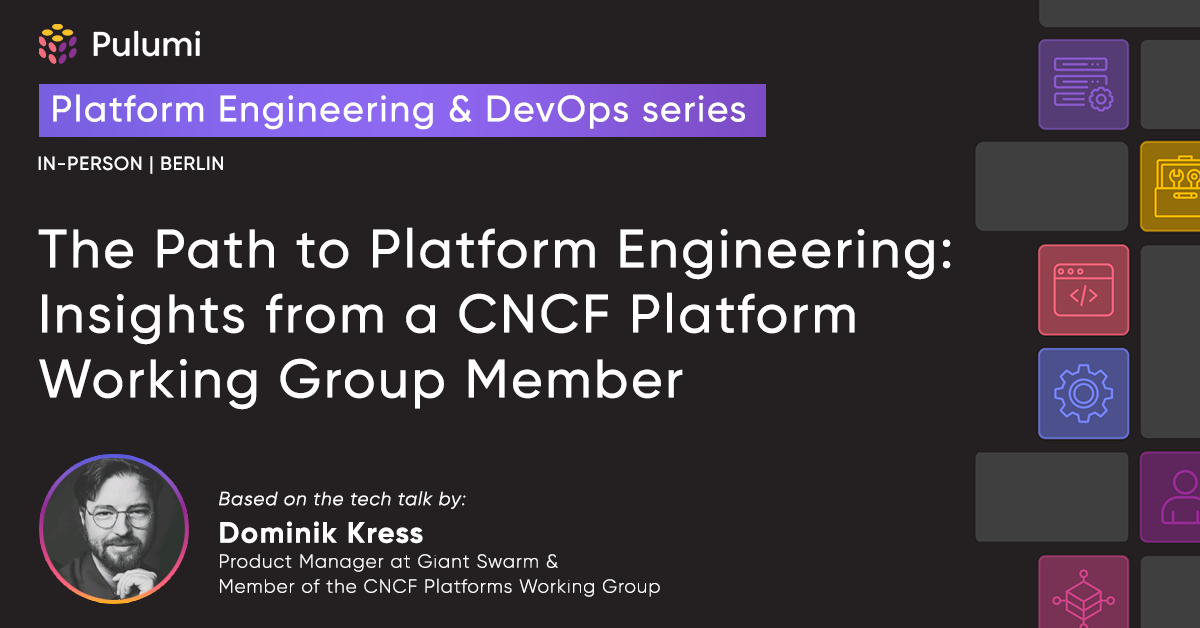
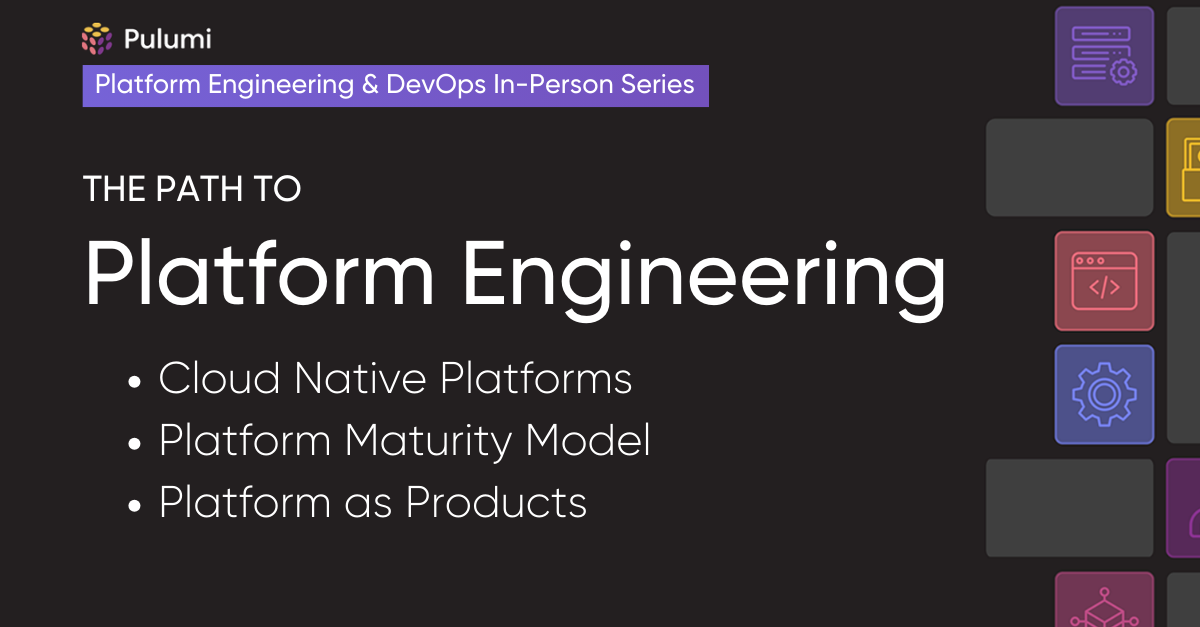
PulumiUP EU - Platform engineering panel article (#13496)
* Platform-engineering-article-pulumiup-europe

* Version 1

* Those #*! spaces

* Hoping to fix the error

* Fix error

* Update index.md

* Apply suggestions from code review

* Update content/blog/integrating-devops-and-security-for-scalable-platform-engineering/index.md

* More links

* fixing links

* Update content/blog/integrating-devops-and-security-for-scalable-platform-engineering/index.md

* Update quote style

* Less is more

applying some of Adam's suggestions

* Add new CTA

* Update title and CTA

* update image

* Update link

* image fix

* update meta

* Update quotes and add links

* Update workshops CTA area

* meta

* meta image update

---------

diff --git a/content/blog/integrating-devops-and-security-for-scalable-platform-engineering/index.md b/content/blog/integrating-devops-and-security-for-scalable-platform-engineering/index.md
@@ -1,0 +1,231 @@
+---
+title: "Integrating DevOps and Security in Platform Engineering"
+allow_long_title: true
+
+# The date represents the post's publish date, and by default corresponds with
+# the date and time this file was generated. Dates are used for display and
+# ordering purposes only; they have no effect on whether or when a post is
+# published. To influence the ordering of posts published on the same date, use
+# the time portion of the date value; posts are sorted in descending order by
+# date/time.
+date: 2024-12-11T07:41:06Z
+
+# The draft setting determines whether a post is published. Set it to true if
+# you want to be able to merge the post without publishing it.
+draft: false
+
+# Use the meta_desc property to provide a brief summary (one or two sentences)
+# of the content of the post, which is useful for targeting search results or
+# social-media previews. This field is required or the build will fail the
+# linter test. Max length is 160 characters.
+meta_desc: Gain insights from industry leaders on integrating DevOps and security in platform engineering to build scalable, secure, and developer-friendly platforms.
+
+# The meta_image appears in social-media previews and on the blog home page. A
+# placeholder image representing the recommended format, dimensions and aspect
+# ratio has been provided for you.
+meta_image: expert-insights-platform-engineering.png
+
+# At least one author is required. The values in this list correspond with the
+# `id` properties of the team member files at /data/team/team. Create a file for
+# yourself if you don't already have one.
+authors:
+    - sara-huddleston
+
+# At least one tag is required. Lowercase, hyphen-delimited is recommended.
+tags:
+    - devsecops
+    - platform-engineering
+    - devex
+    - devops
+    - security
+
+
+# The social copy used to promote this post on Twitter and Linkedin. These
+# properties do not actually create the post and have no effect on the
+# generated blog page. They are here strictly for reference.
+
+# Here are some examples of posts we have made in the past for inspiration:
+# https://www.linkedin.com/feed/update/urn:li:activity:7171191945841561601
+# https://www.linkedin.com/feed/update/urn:li:activity:7169021002394296320
+# https://www.linkedin.com/feed/update/urn:li:activity:7155606616455737345
+# https://twitter.com/PulumiCorp/status/1763265391042654623
+# https://twitter.com/PulumiCorp/status/1762900472489185492
+# https://twitter.com/PulumiCorp/status/1755637618631405655
+
+social:
+    twitter:
+    linkedin:
+
+# See the blogging docs at https://github.com/pulumi/docs/blob/master/BLOGGING.md
+# for details, and please remove these comments before submitting for review.
+---
+
+Platform engineering has become essential for mid-to-large organizations, moving beyond a DevOps trend. Gartner predicts that by 2026, 80% of software companies will have internal platform services to streamline development. The goal is to empower developers with self-service tools while maintaining security, compliance, and reliability through DevSecOps practices.
+
+At PulumiUP Europe 2024, experts shared insights on aligning DevOps with security to build scalable, secure platforms:
+
+- Jess Mink, Sr. Director of Platform Engineering at Honeycomb
+- Kief Morris, Global Head of Infrastructure Engineering at ThoughtWorks
+- Lindsay Jack, VP of Engineering & Security at Snyk
+- Nariman Aga-Tagiyev, Application Security Architect at WiseFrog Security
+- Komal Ali, Engineering Manager at Pulumi
+  
+The panel discussed key strategies, challenges, and pillars of successful platform engineering.
+
+<!--more-->
+
+## In this article:
+
+- [The Core Pillars of Platform Engineering](/blog/integrating-devops-and-security-for-scalable-platform-engineering/the-core-pillars-of-platform-engineering)
+- [Aligning DevOps and Security for Secure Platform Engineering](/blog/integrating-devops-and-security-for-scalable-platform-engineering/aligning-devops-and-security-for-secure-platform-engineering)
+- [Shift Left Security](/blog/integrating-devops-and-security-for-scalable-platform-engineering/shift-left-security)
+- [Embrace Automation and Standardization](/blog/integrating-devops-and-security-for-scalable-platform-engineering/embrace-automation-and-standardization)
+- [Prioritize Observability and Monitoring](/blog/integrating-devops-and-security-for-scalable-platform-engineering/prioritize-observability-and-monitoring)
+- [Foster a Culture of Collaboration](/blog/integrating-devops-and-security-for-scalable-platform-engineering/foster-a-culturecof-collaboration)
+- [Challenges of Integrating Security in Platform Engineering](/blog/integrating-devops-and-security-for-scalable-platform-engineering/#challenges-of-integrating-security-in-platform-engineering)
+- [Balancing Autonomy and Control](/blog/integrating-devops-and-security-for-scalable-platform-engineering/#balancing-autonomy-and-control)
+- [Driving Adoption and Changing Mindsets](/blog/integrating-devops-and-security-for-scalable-platform-engineering/#driving-adoption-and-changing-mindsets)
+- [Adapting to Evolving Needs and Technologies](/blog/integrating-devops-and-security-for-scalable-platform-engineering/#adapting-to-evolving-needs-and-technologies)
+- [Measuring Success in Secure Platform Engineering](/blog/integrating-devops-and-security-for-scalable-platform-engineering/#measuring-success-in-secure-platform-engineering)
+- [The Future of Secure Platform Engineering](/blog/integrating-devops-and-security-for-scalable-platform-engineering/#the-future-of-secure-platform-engineering)
+
+## The Core Pillars of Platform Engineering
+
+{{< youtube "WUpyqn1Jfwg?rel=0" >}}
+
+[Platform engineering teams](https://www.pulumi.com/blog/the-guide-platform-engineering-idp-steps-best-practices/) comprise multiple professionals with many responsibilities and focus areas. According to our panel of experts, the core pillars of platform engineering include:
+
+- **[Developer Experience (DevEx)](https://www.pulumi.com/blog/software-developer-experience-devex-devx-devops-culture/)**: Provide developers with the tools, frameworks, and abstractions they need to be productive and proactive without getting stuck in infrastructure or operational concerns.
+- **[Reliability and Scalability](https://www.pulumi.com/blog/pulumi-patterns-and-practices/#an-effective-internal-developer-platform)**: Ensure that the platform and infrastructure can support the organization's needs, with the ability to scale up or down as required.
+- **[Security and Compliance](https://www.pulumi.com/docs/iac/packages-and-automation/crossguard/)**: Embed robust, accessible security and compliance frameworks into the development lifecycle while making it easy for developers to adhere to these policies.
+- **[Automation and Tooling](https://www.pulumi.com/docs/iac/packages-and-automation/automation-api/)**: Leverage [Infrastructure as Code (IaC)](https://www.pulumi.com/product/infrastructure-as-code/) and automation to enforce standardized processes and consistency and reduce cognitive load and manual effort.
+- **[Observability and Monitoring](https://www.pulumi.com/product/pulumi-insights/)**: Provide visibility into the platform's health and performance, delivering actionable insights that allow teams to identify and resolve issues quickly.
+
+These pillars work together to create a platform that empowers developers to innovate and deliver value to the organization and customers while maintaining the necessary controls and safeguards.
+
+{{% notes type="tip" %}}
+As Jess Mink, Director of Platform Engineering at [Honeycomb](https://www.pulumi.com/blog/observability-with-infrastructure-as-code/), explains:
+
+"*The goal of platform engineering is to help the company run smoother and faster and unlock things people didn't know were possible [...] We tend to focus on tools and software, but it's really about people, processes, and tools. If you consider this, platforms are responsible for social and technical support across the organization. A common pitfall is building tools no one uses because you didn’t meet people where they are.*"
+{{% /notes %}}
+
+## Aligning DevOps and Security for Secure Platform Engineering
+
+Integrating security into platform engineering ensures it becomes a proactive part of the development lifecycle and ensures that "[DevSecOps](https://www.pulumi.com/blog/devsecops-strategy-security-automation-tivity-health/)" is not an afterthought but a core consideration.
+
+Key best practices shared by the panel include:
+
+### Shift Left Security
+
+One of the fundamental principles of DevSecOps is to "shift left" - that is, to integrate security earlier in the development process rather than waiting until the end. This can involve activities such as:
+
+- Incorporating security requirements and threat modeling into the initial design phase
+- Automating security scans and tests as part of the continuous integration (CI) pipeline
+- Providing developers with secure coding guidelines and tools to [identify and remediate vulnerabilities](https://www.pulumi.com/blog/drift-detection/#why-pulumi-cloud-drift-detection-and-remediation)
+
+By addressing security concerns upfront, organizations can reduce the time and cost of remediating issues later in the development lifecycle.
+
+### Embrace Automation and Standardization
+
+Consistency is key. Platform engineering teams should leverage automation and built-in safeguards and security processes. This may include:
+
+- Automating the provisioning of secure infrastructure and application environments
+- Implementing Infrastructure as Code (IaC) to define and [manage infrastructure in a declarative](https://www.pulumi.com/blog/pulumi-is-imperative-declarative-imperative/), version-controlled manner
+- Standardizing security controls, policies, and configurations across the platform
+
+By automating these tasks, platform engineering teams can reduce the risk of human error, improve visibility and auditability, and free up developers to focus on building features rather than managing infrastructure.
+
+### Prioritize Observability and Monitoring
+
+Effective security requires visibility into the health and performance of the platform. Platform engineering teams should invest in robust observability and monitoring solutions to:
+
+- [Detect and respond](https://www.pulumi.com/blog/drift-detection/) to security incidents and anomalies in real-time
+- [Gain insights](https://www.pulumi.com/product/pulumi-insights/) into the behavior and usage patterns of the platform
+- [Identify and address](https://www.pulumi.com/blog/unified-programmatic-approach-infrastructure-management-bmw-using-pulumi/#policy-enforcement-ensuring-compliance-and-security) vulnerabilities or misconfigurations proactively
+
+By integrating security-focused monitoring and alerting into the platform, organizations can quickly identify and mitigate threats while also providing developers with the necessary context to understand and address security-related issues.
+
+### Foster a Culture of Collaboration
+
+Platform engineering is often referred to as being the practical application of DevOps practices. Integrating security practices often requires a cultural shift towards collaboration and shared responsibility between all teams in development, operations, and security, thus the name DevSecOps. Platform engineering teams can facilitate this by:
+
+- Treating [Platforms as Products](https://www.pulumi.com/blog/platform-engineering-cncf-maturity-model/#platforms-as-products-driving-success)
+- Involving security stakeholders in the design and planning of platform initiatives
+- Providing security training and education to developers to empower them to make informed decisions
+- Establishing communication channels and feedback loops between teams
+
+{{% notes type="tip" %}}
+As Kief Morris, Global Head of Infrastructure Engineering at [ThoughtWorks](https://www.thoughtworks.com/en-us), explains:
+
+"*There is a new way of thinking that is trying to avoid that "build it, and they will come mentality," which leads to building it and nobody using it. One of the trends we are seeing is product thinking [...]—using techniques like creating user personas of different types of users in the organization, conducting research to understand their needs, and talking with them.*"
+{{% /notes %}}
+
+Breaking silos and fostering communication helps organizations build secure, scalable platforms that support the needs of developers, platform engineers, architects, and security teams.
+
+## Challenges of Integrating Security in Platform Engineering
+
+While the benefits of integrating DevOps and security in platform engineering are clear, the journey has expected challenges. Our panel of experts highlighted several key obstacles that organizations may face:
+
+### Balancing Autonomy and Control
+
+The primary goal is to empower developers to be more productive and proactive. However, this autonomy needs to be balanced with necessary security controls and governance measures.
+
+{{% notes type="tip" %}}
+Jess Mink points out the importance of achieving harmony between developer autonomy and operational control, stating:
+
+"*It's a delicate balance - you want to make things easy for developers, but you also need to maintain the right level of control and security. It's about finding the right abstractions and interfaces that give developers the freedom they need while still ensuring the platform remains secure and compliant.*"
+{{% /notes %}}
+
+### Driving Adoption and Changing Mindsets
+
+Integrating security into the platform engineering workflow can often be met with resistance from developers accustomed to moving quickly and may view security as an obstacle to their productivity.
+
+{{% notes type="tip" %}}
+As Nariman, a Software Security Architect, notes: 
+
+"*The challenge is not just about the tools or the technology - it's about changing the mindset and getting people to understand the importance of security. You need to find ways to motivate developers and make them feel like they're part of the solution rather than just imposing more rules and processes.*"
+{{% /notes %}}
+
+Effective communication, education, and a focus on the business value of security are key to driving adoption and fostering a culture of shared responsibility.
+
+### Adapting to Evolving Needs and Technologies
+
+As organizations grow and their technology stacks evolve, the demands on the platform engineering team can shift rapidly. Keeping up with these changes, while maintaining a secure and reliable platform, can be a significant challenge.
+
+{{% notes type="tip" %}}
+Lindsay Jack, VP of Engineering for the Platform Division at [Snyk](https://partners.snyk.io/English/solutions/solution/2908/pulumi), explains: 
+
+"*You might have a platform team that's really good at a certain set of technologies, but then the organization starts moving in a new direction, and suddenly those skills don't match up anymore. It's about being agile and adaptable and making sure you have the right mix of skills and expertise to support the organization's evolving needs*."
+{{% /notes %}}
+
+Fostering internal mobility, continuous learning, and a flexible, modular platform architecture can help platform engineering teams navigate these changes more effectively.
+
+## Measuring Success in Secure Platform Engineering
+
+Measuring the success of a platform engineering initiative can be complex as it involves balancing a range of technical, operational, and business-oriented metrics but also considers human factors. According to our panel, some key metrics to include:
+
+- **Developer Experience**: Metrics such as developer satisfaction surveys, time-to-onboard new developers, and the number of self-service platform capabilities can provide insights into the effectiveness of the platform in supporting developer productivity and autonomy.
+- **Reliability and Scalability**: Monitoring service-level objectives (SLOs), incident response times, and the ability to handle increased traffic or user demands can help assess the platform's reliability and scalability.
+- **Security and Compliance**: Tracking the number of security incidents, the ratio of security issues found during threat modeling versus post-deployment, and the adoption of security best practices can indicate the platform's security posture.
+- **Automation and Tooling**: Metrics like the percentage of infrastructure provisioned through code, the frequency of platform updates, and the time saved through automation can demonstrate the platform's operational efficiency.
+- **Observability and Monitoring**: Measuring the effectiveness of observability tools, the time to detect and resolve issues, and the quality of incident reports can [provide insights into the platform's overall health](https://www.pulumi.com/blog/insights-cloud-account-discovery/) and performance.
+
+{{% notes type="tip" %}}
+As Jess Mink emphasizes, it's important not just to collect these metrics but to use them to drive meaningful action and improvement: 
+
+"*We look at all of those [metric categories] every quarter and write summaries that go up to the executive level. This creates visibility and a shared understanding of problems so that there's room for movement and change in the right ways.*"
+{{% /notes %}}
+
+## The Future of Secure Platform Engineering
+
+Software development and infrastructure management are evolving, and the role of platform engineering will only become more critical to support it. By integrating DevOps and security practices, platform engineering teams can create scalable, secure platforms that empower developers to be more productive and innovate, delivering business value.
+
+Learn how Pulumi customers build secure, scalable platforms and empower their development teams:
+
+- **Tivity Health**: [DevSecOps Game-Changer: Security Automation That Delivers Business Results](https://www.pulumi.com/blog/devsecops-strategy-security-automation-tivity-health/)
+- **BMW Group**: [Unified and Programmatic Approach to Infrastructure Management at BMW Using Pulumi](https://www.pulumi.com/blog/unified-programmatic-approach-infrastructure-management-bmw-using-pulumi/)
+- **Lemonade**: [How the DevOps team supports a much larger group of developers](https://www.pulumi.com/case-studies/lemonade/) using by Pulumi to standardize infrastructure components and enforce best practices.
+
+Discover platform engineering best practices in [The Guide to Platform Engineering: 7 Steps to Get It Right](https://www.pulumi.com/blog/the-guide-platform-engineering-idp-steps-best-practices/).
+
+***Build secure, scalable platforms with confidence—get started with the [Platform Engineering Workshop Series & Course](https://info.pulumi.com/platform-engineering-workshop-series)***

diff --git a/content/blog/platform-engineering-cncf-maturity-model/index.md b/content/blog/platform-engineering-cncf-maturity-model/index.md
@@ -1,5 +1,5 @@
 ---
-title: "The Path to Platform Engineering: Insights from a CNCF Platform Working Group Member"
+title: "Platform Engineering: Cloud-Native, Maturity Models, and Platforms as Products"
 allow_long_title: true
 
 # The date represents the post's publish date, and by default corresponds with
@@ -59,7 +59,7 @@ social:
 
 The Platform Engineering & DevOps in-person series launched in Berlin with two great speakers. This blog article is an overview of Dominik Kress's talk, “What the Heck is the CNCF Platform Working Group? Answers from a Member!” in which he discussed Cloud-Native Platforms, The Platform Maturity Model, and approaching Platforms as Products. 
 
-In this article, you'll learn more about [platform engineering](https://www.pulumi.com/what-is/what-is-platform-engineering/) and how you can get involved with the CNCF Platform Working Group. Make sure to check our [Platform Engineering & DevOps Series](https://info.pulumi.com/platform-engineering-devops-series) to find a meetup near you.
+In this article, you'll learn more about [platform engineering](https://www.pulumi.com/what-is/what-is-platform-engineering/) and how to get involved with the CNCF Platform Working Group. Make sure to check our [Pulumi User Groups (PUGs)](https://www.meetup.com/pro/pugs/) to find a meetup near you.
 
 <!--more-->
 
@@ -127,10 +127,9 @@ This article and Dominik Kress's talk highlighted the importance of platform eng
 
 If you're interested in learning more about platform engineering and getting involved in CNCF's initiatives, there are several ways to participate:
 
-- Attend a Platform Engineering & DevOps in-person meetup, [find a location near you](https://info.pulumi.com/platform-engineering-devops-series).
+- Register for the [Platform Engineering workshop series course](https://info.pulumi.com/platform-engineering-workshop-series).
 - Join the bi-weekly [CNCF Platform Working Group meetings](https://tag-app-delivery.cncf.io/wgs/platforms/#meetings) every other Tuesday at 5 PM Berlin time (11 AM ET).
 - Learn how to [build Developer Portals with Pulumi](https://www.pulumi.com/docs/pulumi-cloud/developer-portals/). You can get off the ground faster with organization templates, a new project wizard, or leveraging the backstage plugin.
-- Register for one of our [Platform Engineering or DevOps workshops](https://www.pulumi.com/resources/#upcoming).
 
 ---
 

diff --git a/content/blog/the-guide-platform-engineering-idp-steps-best-practices/index.md b/content/blog/the-guide-platform-engineering-idp-steps-best-practices/index.md
@@ -172,7 +172,7 @@ Building a successful platform engineering strategy involves following a clear r
 
 With the right approach and mindset, your platform engineering efforts will become a strategic enabler for your organization's digital transformation.
 
-Check out [Pulumi's upcoming workshops](https://www.pulumi.com/resources/#upcoming) and resources to learn more about the [hands-on approach to platform engineering](https://www.pulumi.com/product/internal-developer-platforms/).
+***Build secure, scalable platforms with confidence—[register for the Platform Engineering Course](https://info.pulumi.com/platform-engineering-workshop-series)***
 
 ---
 
